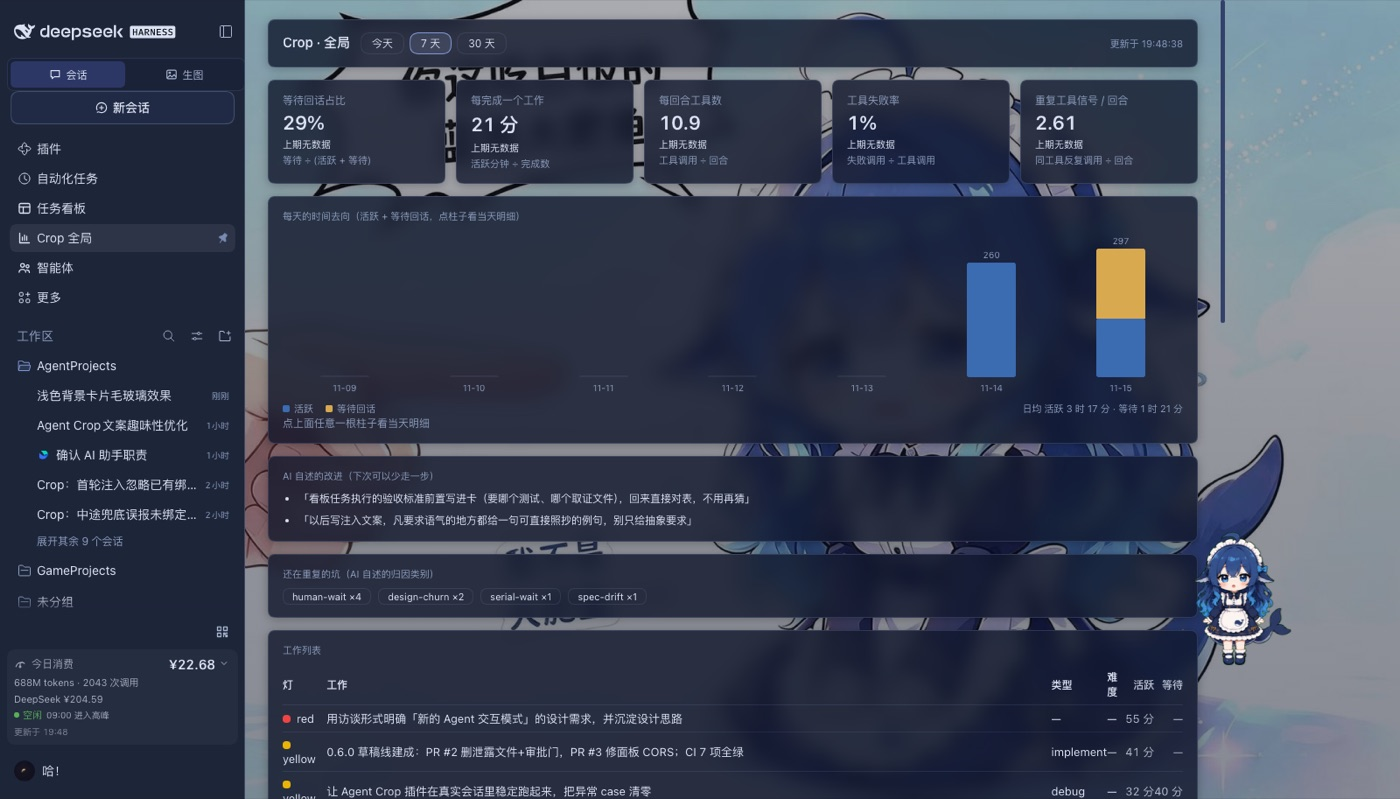
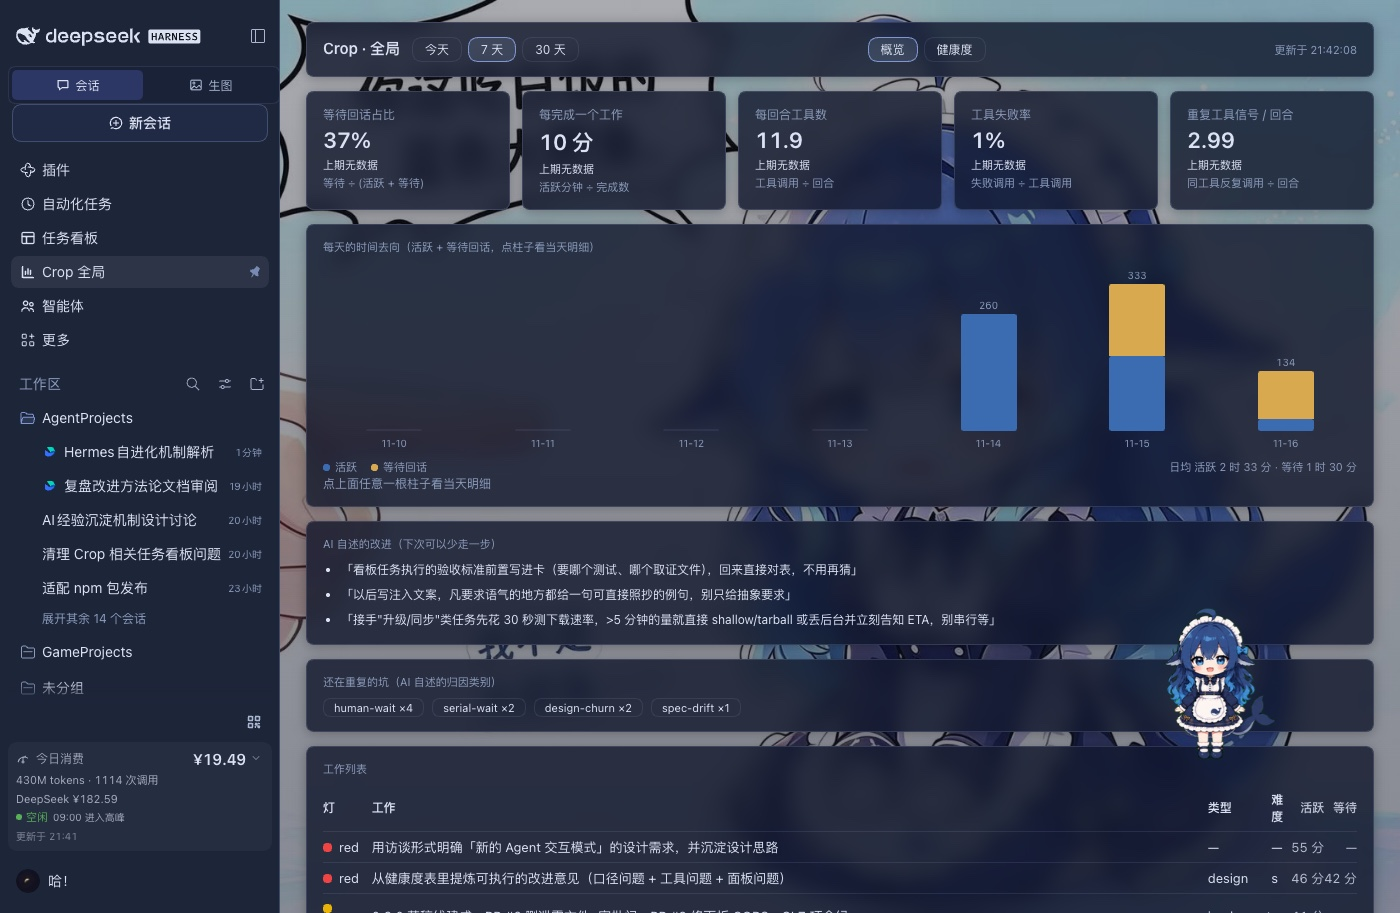
docs(readme): 面板章节改成当前版本，替换会话页/全局截图
- 去掉「v0 还很简陋 / 都是早期版本」的旧说法，按现在的两个入口重写
- 会话页换成真实的多 lane 时间轴截图（含鞭策贴纸与次数）
- 全局页换成当前毛玻璃面板截图

diff --git a/dsh/lib/client.js b/dsh/lib/client.js
@@ -630,6 +630,20 @@ body[data-ds-dark-theme] .crop-donut-hole {
 .crop-imp-row { display: flex; gap: 6px; padding: 4px 0; line-height: 1.5; color: #c6d2ea; }
 .crop-imp-no { width: 14px; flex: none; color: #7f9fe0; }
 .crop-imp-tag { flex: none; height: 15px; line-height: 14px; padding: 0 5px; border: 1px solid rgba(160, 180, 230, .16); border-radius: 999px; font-size: 9.5px; color: #8fa0c4; }
+
+/* The session page is also a data surface: same denser glass as the global
+   page so numbers keep contrast over a busy wallpaper. */
+.crop-page .crop-card {
+  background: rgb(242 245 250 / min(1, calc(var(--dsh-skin-bubble-alpha, .5) * 1.7)));
+  border: 1px solid rgba(255, 255, 255, .35);
+  box-shadow: 0 2px 12px rgba(20, 30, 60, .10);
+}
+
+body[data-ds-dark-theme] .crop-page .crop-card {
+  background: rgb(16 22 42 / min(1, calc(var(--dsh-skin-bubble-alpha, .5) * 2 * .8)));
+  border-color: rgba(160, 180, 230, .18);
+  box-shadow: 0 2px 12px rgba(0, 0, 0, .28);
+}
 `;
 
     const S = {
